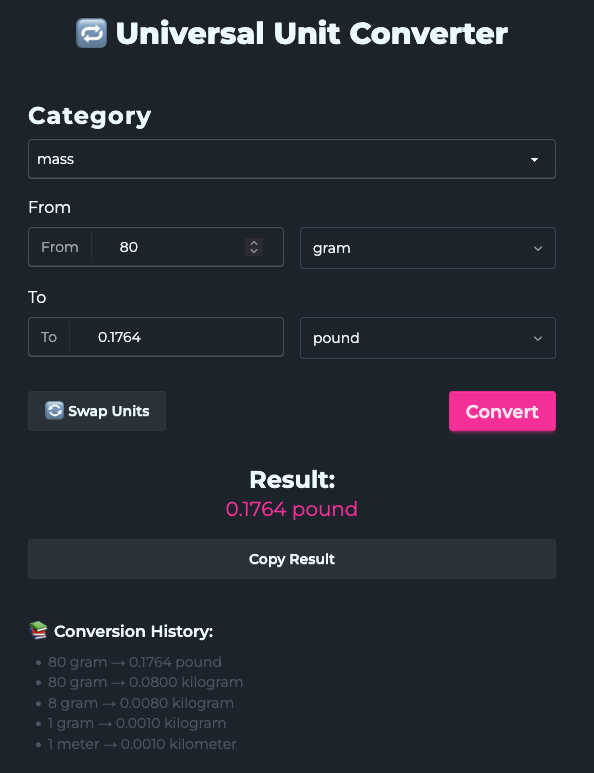
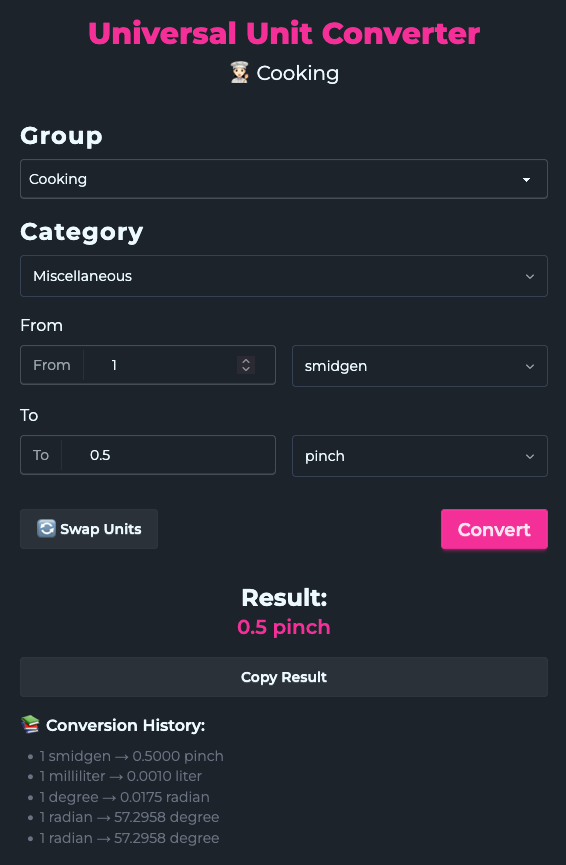
Update readme and screenshot

diff --git a/README.md b/README.md
@@ -1,6 +1,6 @@
 # 🔁 Universal Unit Converter
 
-A simple and responsive web-based unit converter built with **React** and **Tailwind CSS**. Automatically converts values across unit categories like **length** and **mass**.
+A simple and responsive web-based unit converter built with **React** and **Tailwind CSS**. Convert values across various real-world categories with precision and ease.
 
 ![Screenshot](./unit-converter.png)
 
@@ -9,7 +9,11 @@ A simple and responsive web-based unit converter built with **React** and **Tail
 - 🌐 Convert units instantly as you type
 - 🔄 Swap between units
 - 📚 History of recent conversions
-- 🧠 Categories: Length, Mass (more coming soon)
+- 🧠 Categories:
+  🔧 Engineering: Length, Mass, Force, Pressure, Energy, Power, Density, and more.
+  💻 Digital: Bit/Byte conversions (kB, MB, GB, etc.), bandwidth units, data rates.
+  🍳 Cooking: Cups, tablespoons, teaspoons, fluid ounces, grams, liters, pints, and other common culinary measurements.
+  🌌 Astronomy: Light-years, parsecs, astronomical units, planetary mass, surface gravity, star classifications, and black hole mass scales.
 - 📱 Fully responsive design
 - 🎨 Clean Tailwind CSS styling
 
@@ -21,6 +25,7 @@ A simple and responsive web-based unit converter built with **React** and **Tail
 
 - [React](https://reactjs.org/)
 - [Tailwind CSS](https://tailwindcss.com/)
+- [Daisy UI](https://daisyui.com/)
 - Vite (for fast development)
 - JavaScript (ES6+)
 
